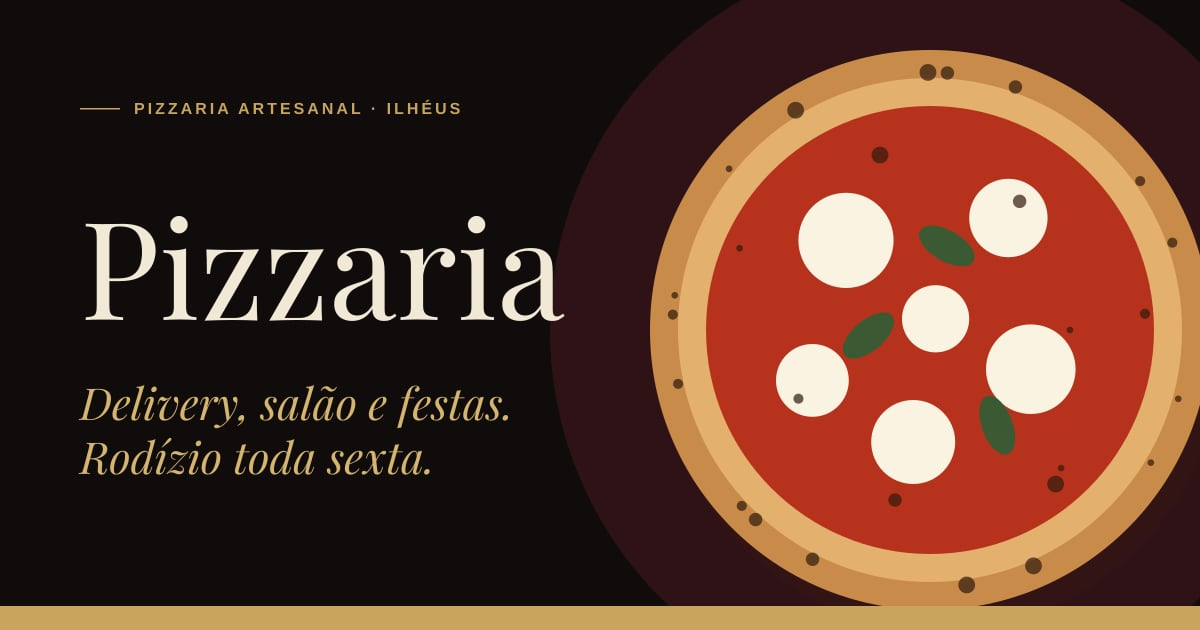
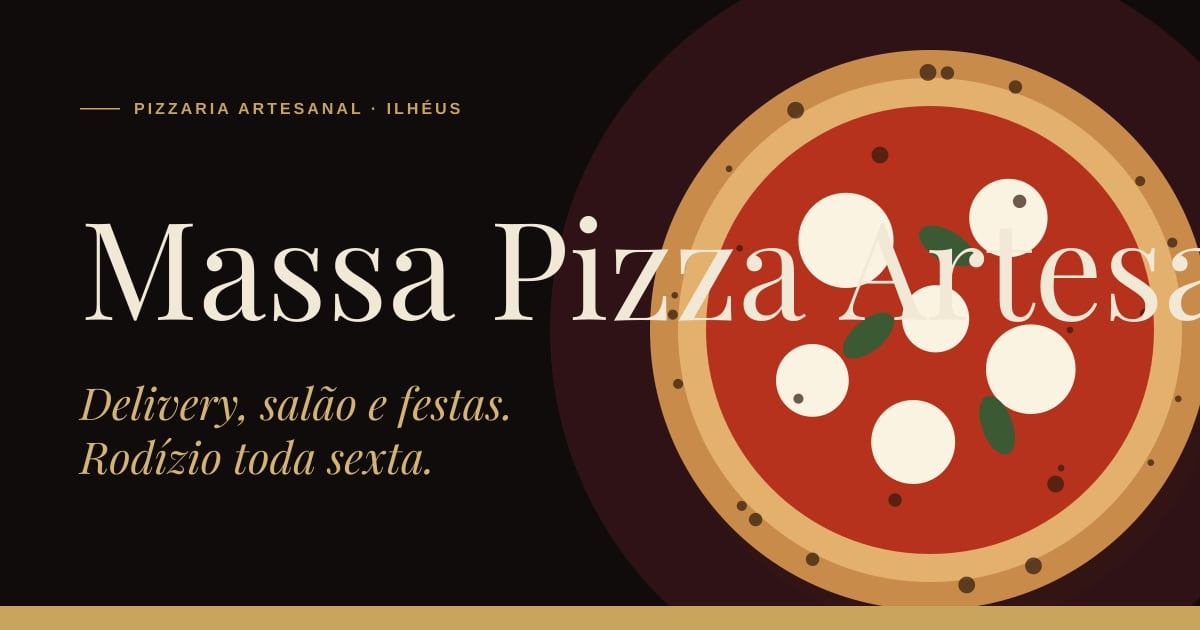
Aplica nome e endereço da Massa Pizza Artesanal
Claude-Session: https://claude.ai/code/session_011kDrMJaAZNAZoUQYzLhH1f

Changed region(s): [[0.0617, 0.3317, 1.0, 0.5127]]

diff --git a/src/data/site.ts b/src/data/site.ts
@@ -48,7 +48,7 @@ export interface MenuGroup {
 }
 
 export const site = {
-  name: 'Pizzaria', // EXEMPLO (nome do cliente)
+  name: 'Massa Pizza Artesanal',
   tagline: 'Massa de longa fermentação, forno quente e borda recheada.', // EXEMPLO
   city: 'Ilhéus', // EXEMPLO
   /** Domínio do cliente. Vazio = endereço da Vercel */
@@ -60,7 +60,7 @@ export const site = {
   mockupNotice: true,
 
   seo: {
-    title: 'Pizzaria · pizzas artesanais, delivery e festas', // EXEMPLO
+    title: 'Massa Pizza Artesanal · pizzas artesanais, delivery e festas', // EXEMPLO
     description:
       'Pizzas artesanais no salão, no delivery e em festas: calabresa, portuguesa, frango com catupiry, pepperoni e pizzas doces. Peça pelo WhatsApp.', // EXEMPLO
   },
@@ -76,7 +76,7 @@ export const site = {
       facebook: 'https://www.facebook.com/', // EXEMPLO
       tiktok: '',
     },
-    serviceArea: 'Centro de Ilhéus e bairros próximos', // EXEMPLO
+    serviceArea: 'Pontal e bairros próximos de Ilhéus', // EXEMPLO
   },
 
   /**
@@ -220,13 +220,13 @@ export const site = {
     weekday: 5,
     open: '19:00', // EXEMPLO
     close: '23:00', // EXEMPLO
-    place: 'Rua de Exemplo, 123', // EXEMPLO
-    addressLines: ['Rua de Exemplo, 123', 'Centro, Ilhéus, BA'], // EXEMPLO
-    mapsUrl: 'https://www.google.com/maps/search/?api=1&query=-14.7958%2C-39.0345', // EXEMPLO
-    mapsEmbed: 'https://www.google.com/maps?q=-14.7958,-39.0345&z=16&output=embed', // EXEMPLO (troque pelo endereço do cliente)
+    place: 'Av. Getúlio Vargas, 1814', // EXEMPLO
+    addressLines: ['Av. Getúlio Vargas, 1814', 'Pontal, Ilhéus, BA'], // EXEMPLO
+    mapsUrl: 'https://www.google.com/maps/search/?api=1&query=Massa+Pizza+Artesanal,+Av.+Get%C3%BAlio+Vargas,+1814,+Pontal,+Ilh%C3%A9us+-+BA', // EXEMPLO
+    mapsEmbed: 'https://www.google.com/maps?q=Massa+Pizza+Artesanal,+Av.+Get%C3%BAlio+Vargas,+1814,+Pontal,+Ilh%C3%A9us+-+BA&z=16&output=embed', // EXEMPLO (troque pelo endereço do cliente)
     gettingThere: [
-      { title: 'A pé', text: 'No Centro histórico, a poucos minutos da Catedral de São Sebastião.' }, // EXEMPLO
-      { title: 'De ônibus', text: 'Várias linhas param no Centro, perto da orla.' }, // EXEMPLO
+      { title: 'A pé', text: 'No Pontal, perto do Mirante da Piedade.' }, // EXEMPLO
+      { title: 'De ônibus', text: 'Linhas do Pontal param na Av. Getúlio Vargas.' }, // EXEMPLO
       { title: 'De carro', text: 'Estacionamento conveniado na mesma rua.' }, // EXEMPLO
     ],
     notes: ['Pix, cartão e vale-refeição', 'Sabores vegetarianos e pizzas doces', 'Crianças até 6 anos não pagam'], // EXEMPLO

diff --git a/src/styles/global.css b/src/styles/global.css
@@ -4699,3 +4699,6 @@ body {
     animation: none;
   }
 }
+
+/* Nome longo no topo: uma linha só */
+.brand__name { white-space: nowrap; font-size: clamp(1.05rem, 4.6vw, 1.4rem); }
